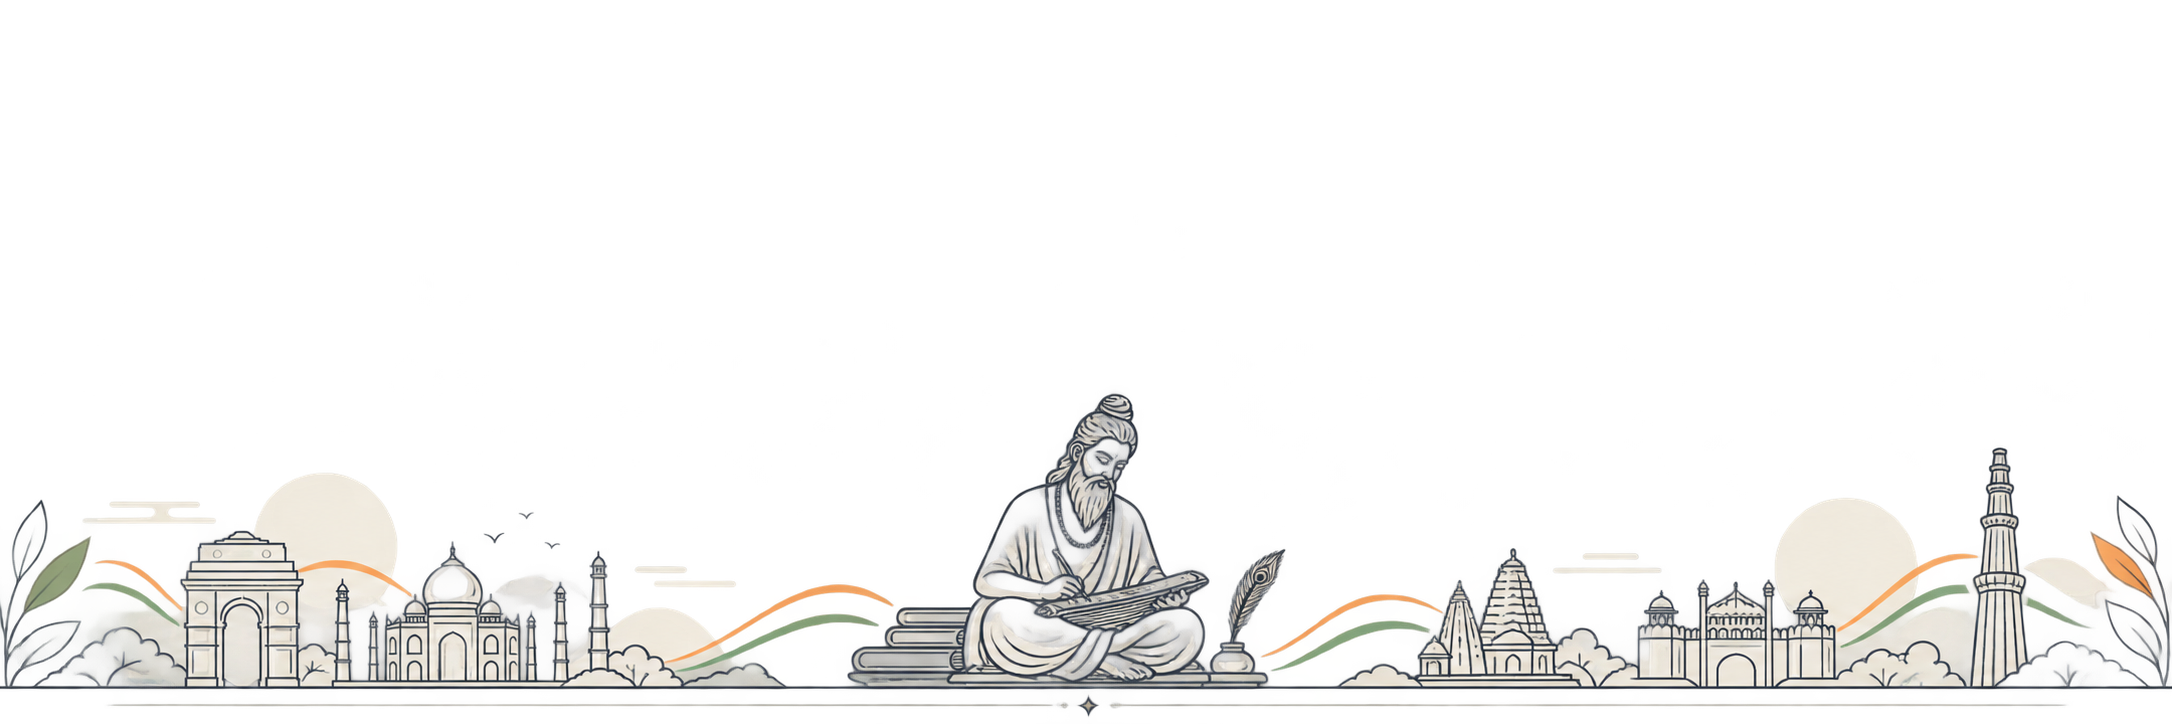
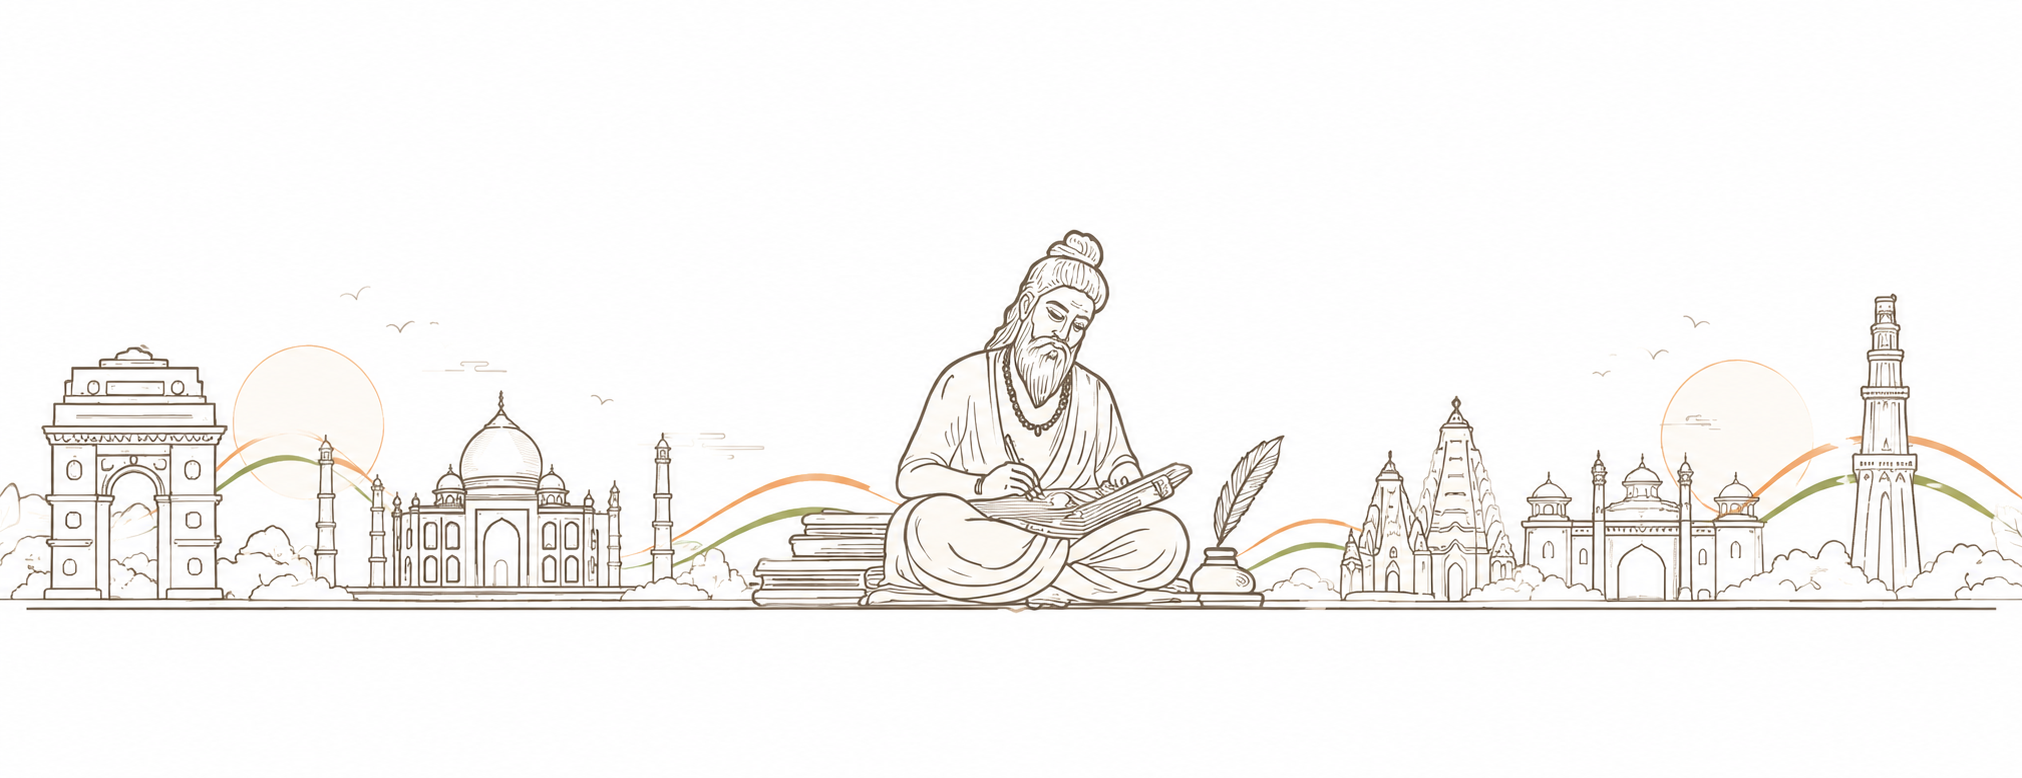
feat(intro): update to high-res final sculptuer artwork with 100% full width edge-to-edge coverage

diff --git a/src/styles/style.css b/src/styles/style.css
@@ -5545,14 +5545,14 @@ body.intro-playing {
   transform: translateY(-1px);
 }
 
-/* Authentic Indian Heritage Art & Sage Architecture Panorama (User Selected) */
+/* Authentic Indian Heritage Art & Sage Architecture Panorama (100% Full Width) */
 .sarvam-real-sculptures {
   position: absolute;
   bottom: 0;
   left: 0;
   right: 0;
   width: 100%;
-  height: 210px;
+  height: 230px;
   display: flex;
   align-items: flex-end;
   justify-content: center;
@@ -5560,16 +5560,17 @@ body.intro-playing {
   pointer-events: none;
   z-index: 2;
   opacity: 0;
-  animation: sarvamSculptureFadeIn 1s cubic-bezier(0.16, 1, 0.3, 1) 0.3s forwards;
+  animation: sarvamSculptureFadeIn 0.8s cubic-bezier(0.16, 1, 0.3, 1) 0.2s forwards;
 }
 
 .sarvam-heritage-art-img {
   width: 100%;
-  max-width: 1400px;
+  max-width: 100%;
   height: 100%;
-  object-fit: contain;
+  object-fit: cover;
   object-position: center bottom;
-  filter: drop-shadow(0 -4px 20px rgba(234, 88, 12, 0.12));
+  mix-blend-mode: multiply;
+  filter: drop-shadow(0 -4px 20px rgba(234, 88, 12, 0.08));
 }
 
 @keyframes sarvamSculptureFadeIn {
@@ -5577,7 +5578,7 @@ body.intro-playing {
   100% { transform: translateY(0); opacity: 1; }
 }
 
-@media (max-width: 600px) {
+@media (max-width: 768px) {
   .sarvam-brand-logo {
     height: 56px;
     max-width: 300px;
@@ -5597,7 +5598,13 @@ body.intro-playing {
     width: 130px;
   }
   .sarvam-real-sculptures {
-    height: 140px;
+    height: 160px;
+  }
+}
+
+@media (max-width: 480px) {
+  .sarvam-real-sculptures {
+    height: 130px;
   }
 }
 
